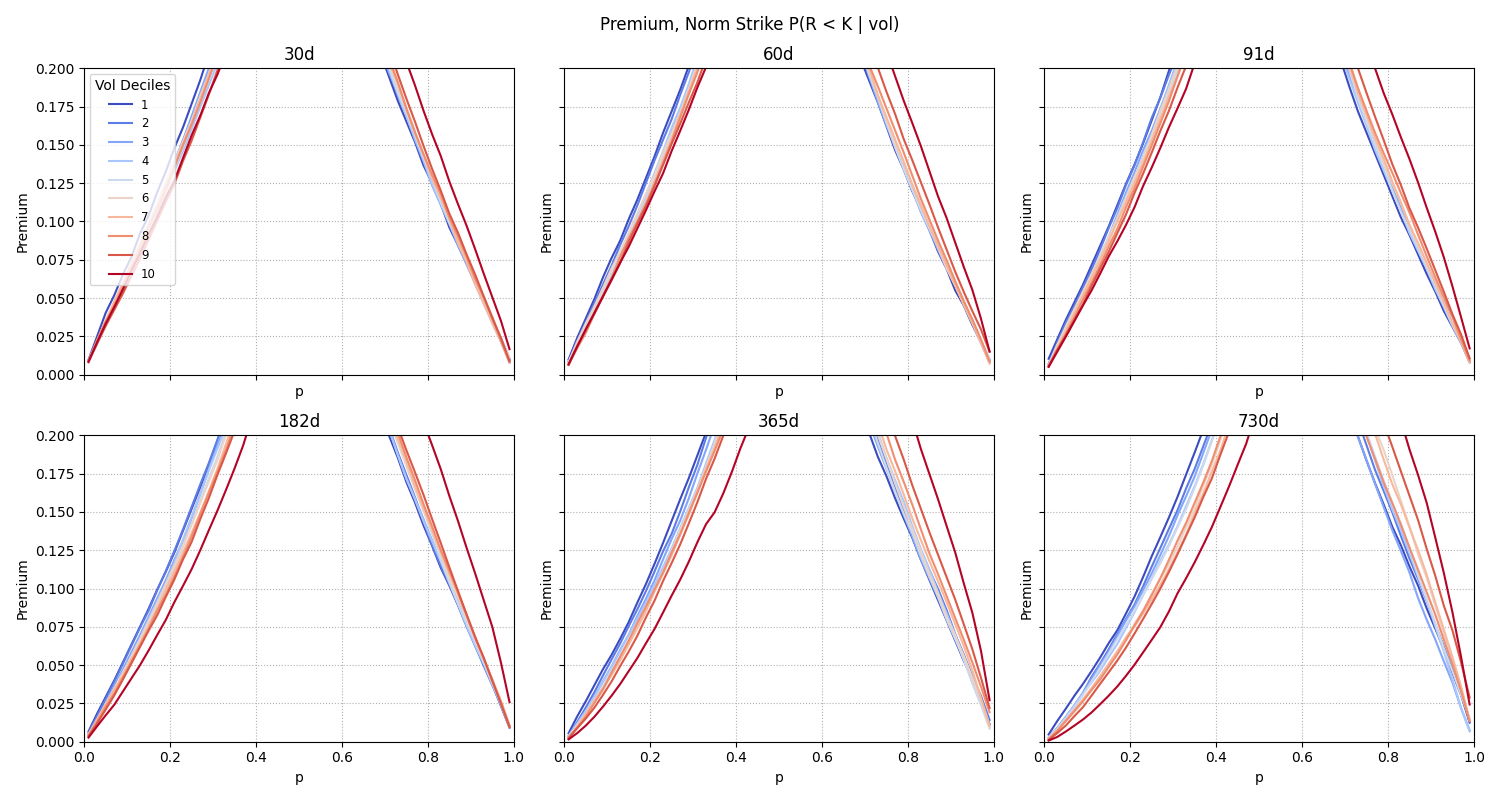
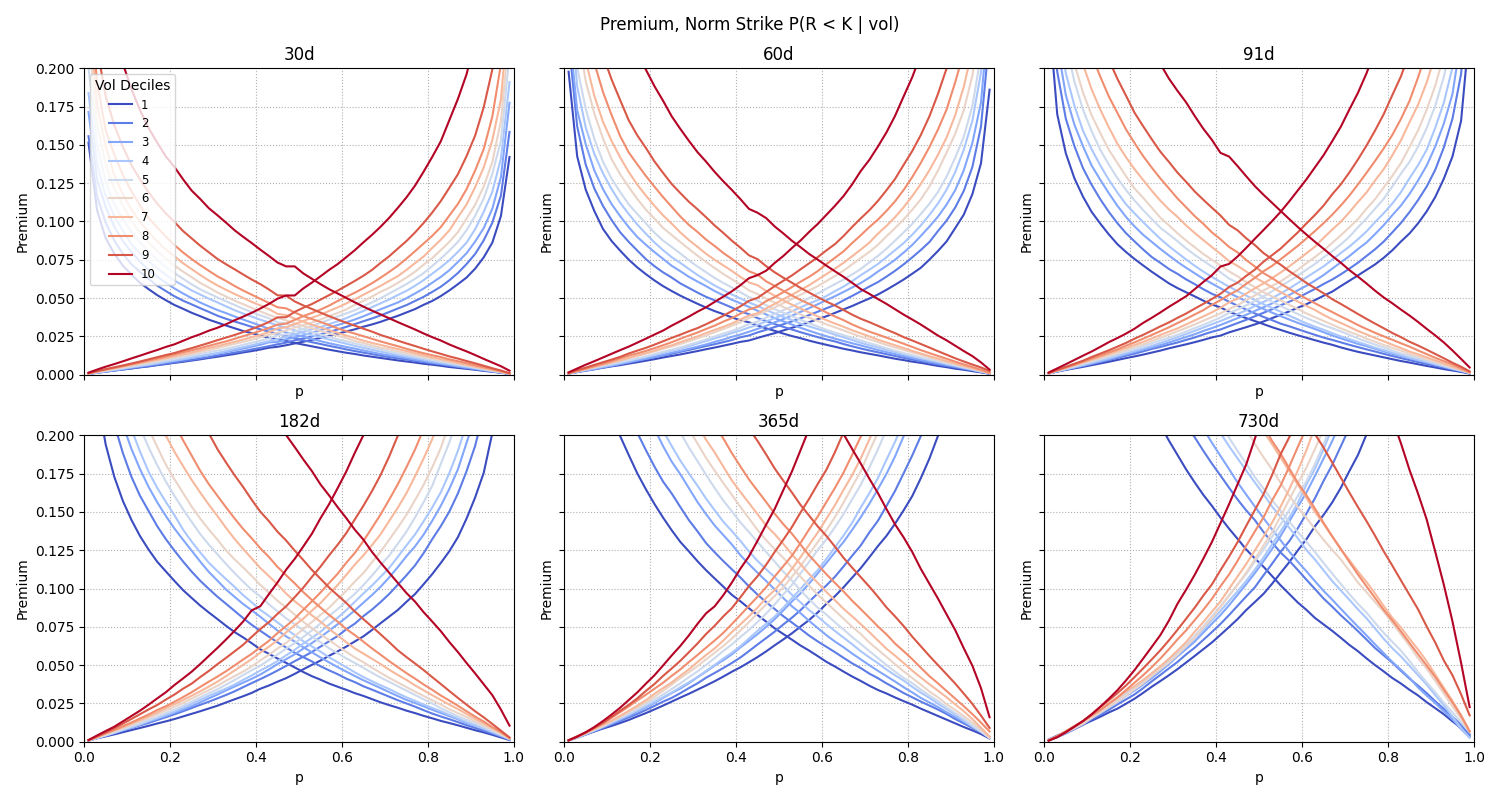
upd

diff --git a/put_premiums_hist/run.py b/put_premiums_hist/run.py
@@ -211,7 +211,7 @@ def chapter_mmean(df, mmean_):
   return mmean_
 
 def chapter_scale(df, scale_):
-  report("#Scale Scale[R | T, vol]")
+  report("# Scale[R | T, vol]")
 
   plots.plot_estimated_scale('Estimated Scale (at expiration)', df, scale_)
 
@@ -296,7 +296,7 @@ def chapter_premiums(df):
   # Normalised strikes as ITM probabilities
   plots.plot_premium_by_period(
     "Premium, Norm Strike P(R < K | vol)",
-    df, x='kq', x_title='p', p='np_exp', c='nc_exp', x_min=0, x_max=1, y_min=0, y_max=0.2
+    df, x='kq', x_title='p', p='p_exp', c='c_exp', x_min=0, x_max=1, y_min=0, y_max=0.2
   )
   plots.plot_premium_by_period(
     "Premium, Norm Strike as P(R < K | vol), log scale",

diff --git a/put_premiums_hist/readme.md b/put_premiums_hist/readme.md
@@ -55,7 +55,7 @@ Found params: [-0.5207, 1.9198, 1.2038, -0.1444, 0.2549, 0.0000, 0.0000, -0.0349
 
 ![Mean E[R]](readme/mean-e-r.png)
 
-#Scale Scale[R | T, vol]
+### Scale[R | T, vol]
 
 ![Estimated Scale (at expiration)](readme/estimated-scale-at-expiration.png)
 
